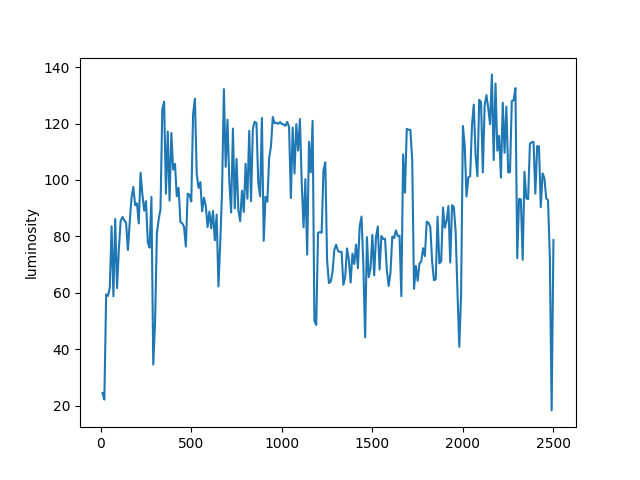
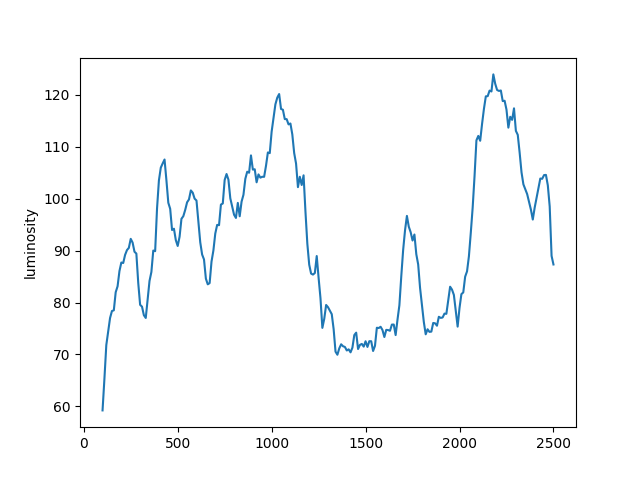
rolling average for luminosity

diff --git a/backend/luminosity_detection.py b/backend/luminosity_detection.py
@@ -20,4 +20,4 @@ def extract_luminosity_data(file_name, interval):
                 interval_vals = []
         else:
             break
-    return all_vals.set_index('timestamp')
+    return all_vals.set_index('timestamp').rolling(10).mean()
